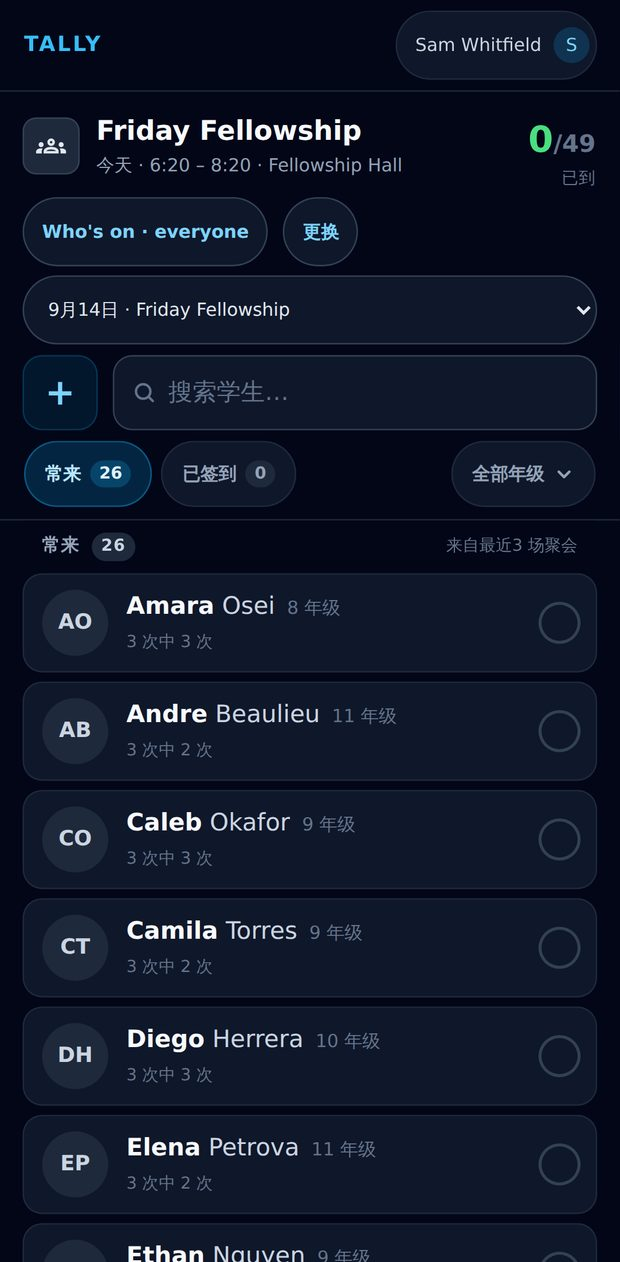
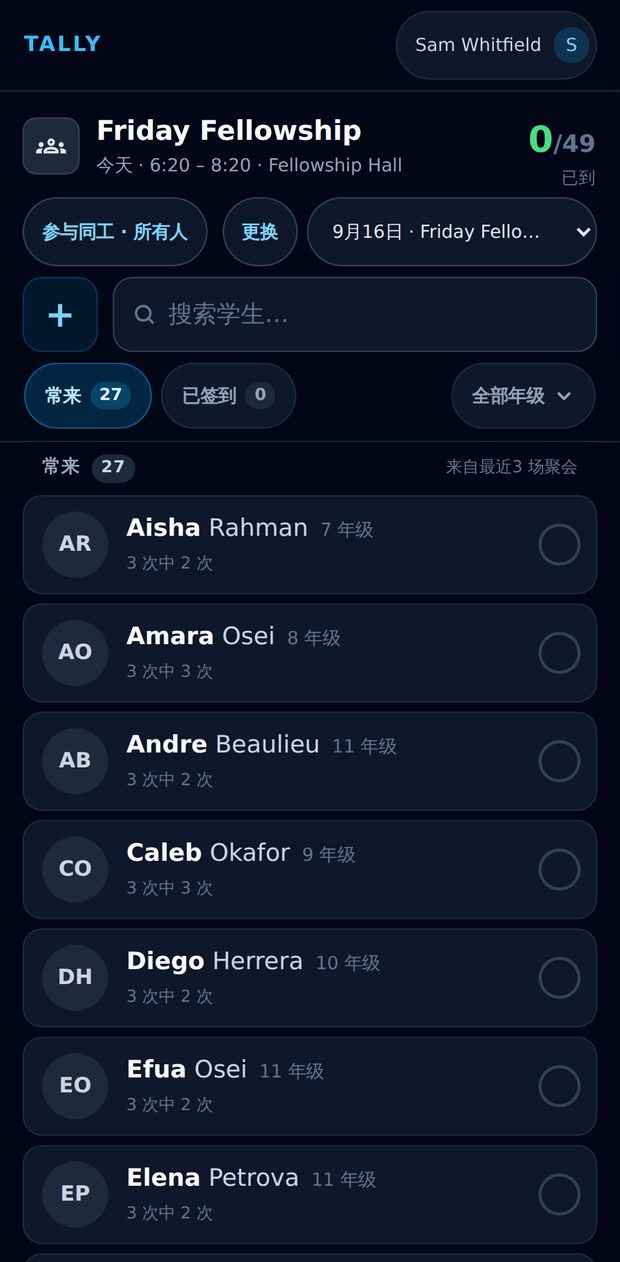
Re-photograph the i18n walkthrough after the catalogue review
All sixteen frames recaptured against the live emulator stack, so the page
shows the reviewed wording — 找輔導幫忙 on the kiosk's search hint, the new
同工名單 chip on the roster — and its review-status paragraph now reports the
reviewed counts from translation-state.json instead of claiming every key is
a machine draft.

Claude-Session: https://claude.ai/code/session_018RSGiF9uEQqskn2NaQHbDN

diff --git a/docs/walkthrough/i18n/README.md b/docs/walkthrough/i18n/README.md
@@ -9,10 +9,7 @@ The frames are grouped rather than listed, because the claim is a comparison. An
 i18n pass that has translated the shell and left the content in English looks
 perfect one screenshot at a time; it only fails in a row.
 
-**No bilingual reviewer has read any of this.** Every key in
-`messages/es-MX.json`, `messages/zh-Hans.json` and `messages/zh-Hant.json`
-is marked `machine`, never `reviewed` — the review gate is real, and it is
-still open.
+The review gate is real. Keys marked `reviewed` in `messages/translation-state.json` have been read against the English and the glossary; the rest are machine drafts nobody has read. At this build: Español · es-MX: 113 of 2307 · 简体中文 · Simplified: 370 of 2307 · 繁體中文 · Traditional: 326 of 2307.
 
 Regenerate with:
 
